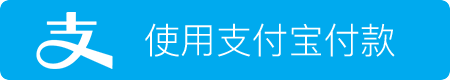
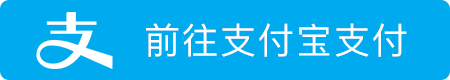
更新二维码显示模式！

diff --git a/alipay.php b/alipay.php
@@ -37,7 +37,22 @@ function alipay_link($params) {
 	$currency 			= $params['currency'];
 	$return_url			= $systemurl."/modules/gateways/alipay/return.php";
 	$notify_url			= $systemurl."/modules/gateways/alipay/notify.php";
-	$parameter = array(
+	$qcode = array(
+		"service"         => "create_direct_pay_by_user",  					//交易类型
+		"partner"         => $gatewayPID,          							//合作商户号
+		"return_url"      => $return_url,         							//同步返回
+		"notify_url"      => $notify_url,       							//异步返回
+		"_input_charset"  => $_input_charset,   							//字符集，默认为GBK
+		"subject"         => "$companyname 账单 #$invoiceid",        		//商品名称，必填
+		"body"            => $description,        							//商品描述，必填
+		"out_trade_no"    => $invoiceid,      								//商品外部交易号，必填（保证唯一性）
+		"total_fee"       => $amount,            							//商品单价，必填（价格不能为0）
+		"payment_type"    => "1",               							//默认为1,不需要修改
+		"qr_pay_mode"	  => "1",											//二维码模式
+		"show_url"        => $systemurl,         							//商品相关网站
+		"seller_email"    => $gatewaySELLER_EMAIL      						//卖家邮箱，必填
+	);
+	$webpay = array(
 		"service"         => "create_direct_pay_by_user",  					//交易类型
 		"partner"         => $gatewayPID,          							//合作商户号
 		"return_url"      => $return_url,         							//同步返回
@@ -52,10 +67,22 @@ function alipay_link($params) {
 		"seller_email"    => $gatewaySELLER_EMAIL      						//卖家邮箱，必填
 	);
 
-	$alipay = new alipay_service($parameter,$gatewaySECURITY_CODE,$sign_type);
-	$link=$alipay->create_url();
+	$qcodepay = new alipay_service($qcode,$gatewaySECURITY_CODE,$sign_type);
+	$webpay = new alipay_service($webpay,$gatewaySECURITY_CODE,$sign_type);
+	$qcodelink=$qcodepay->create_url();
+	$webpaylink=$webpay->create_url();
 	$img=$systemurl.'/modules/gateways/alipay/pay-with-alipay.png'; //这个图片要先存放好.
-	$code='<a href="'.$link.'" target="_blank"><img style="width: 225px" src="'.$img.'" alt="点击使用支付宝支付"></a>';
+	$codeinput='<a href="'.$webpaylink.'" target="_blank"><img style="width: 225px" src="'.$img.'" alt="点击使用支付宝支付"></a>';
+	$code='
+<script>
+function refreshPage() { 
+	window.location.reload(); 
+} 
+window.setTimeout("refreshPage()",10000);
+</script>
+<iframe src="'.$qcodelink.'" width="300" height="290" style="border: none;transform: scale(.76);margin: -30px 0 -30px -35px;"></iframe>';
+	
+	$code= $code . $codeinput;
 	
 	if (stristr($_SERVER['PHP_SELF'], 'viewinvoice')) {
 		return $code;

diff --git a/alipay/notify.php b/alipay/notify.php
@@ -172,6 +172,11 @@ function  log_result($word) {
 }
 $gatewaymodule = "alipay"; # Enter your gateway module name here replacing template
 $GATEWAY = getGatewayVariables($gatewaymodule);
+
+$url			= $GATEWAY['systemurl'];
+$companyname 	= $GATEWAY['companyname'];
+$currency		= $GATEWAY['currency'];
+
 if (!$GATEWAY["type"]) die("Module Not Activated"); # Checks gateway module is active before accepting callback
 
 $_input_charset  = "utf-8";   //字符编码格式 目前支持 GBK 或 utf-8
@@ -192,6 +197,7 @@ $invoiceid = $_POST['out_trade_no']; //获取支付宝传递过来的订单号
 $transid = $_POST['trade_no'];       //获取支付宝传递过来的交易号
 $amount = $_POST['total_fee'];       //获取支付宝传递过来的总价格
 $fee = 0;
+
 if($status == 'TRADE_FINISHED' || $status == 'TRADE_SUCCESS') {
 	$invoiceid = checkCbInvoiceID($invoiceid,$GATEWAY["name"]); # Checks invoice ID is a valid invoice number or ends processing
 	//checkCbTransID($transid); # Checks transaction number isn't already in the database and ends processing if it does
@@ -204,6 +210,7 @@ if($status == 'TRADE_FINISHED' || $status == 'TRADE_SUCCESS') {
 		addInvoicePayment($invoiceid,$transid,$amount,$fee,$gatewaymodule);
 		logTransaction($GATEWAY["name"],$_GET,"Successful");
 	}
+	//echo "<script>window.parent.location.href='$url/viewinvoice.php?id=$invoiceid';</script>";
 	echo "success";
 }
 

diff --git a/alipay/return.php b/alipay/return.php
@@ -170,6 +170,11 @@ function  log_result($word) {
 
 $gatewaymodule = "alipay"; # Enter your gateway module name here replacing template
 $GATEWAY = getGatewayVariables($gatewaymodule);
+
+$url			= $GATEWAY['systemurl'];
+$companyname 	= $GATEWAY['companyname'];
+$currency		= $GATEWAY['currency'];
+
 if (!$GATEWAY["type"]) die("Module Not Activated"); # Checks gateway module is active before accepting callback
 
 $_input_charset  = "utf-8";   //字符编码格式 目前支持 GBK 或 utf-8
@@ -203,12 +208,10 @@ if(!$verify_result) {
 			addInvoicePayment($invoiceid,$transid,$amount,$fee,$gatewaymodule);
 			logTransaction($GATEWAY["name"],$_GET,"Successful");
 		}
+		//echo "<script>window.parent.location.href='$url/viewinvoice.php?id=$invoiceid';</script>";
 	}
 	
 }
-$url			= $GATEWAY['systemurl'];
-$companyname 	= $GATEWAY['companyname'];
-$currency		= $GATEWAY['currency'];
 ?>
 <!DOCTYPE html> 
 <html> 

diff --git a/README.md b/README.md
@@ -5,6 +5,10 @@ NeWorld 出品，支付宝插件
 
 #### 后台开启支付宝插件、填写对应参数即可使用。
 
+最新添加二维码扫码模式
+
+![二维码扫码模式](https://cdn.neworld.org/2016-08-18-%E6%94%AF%E4%BB%98%E5%AE%9D-%E5%BE%85%E4%BB%98%E6%AC%BE.jpg)
+
 支付成功状态
 
 ![支付成功状态](https://dn-neworld.qbox.me/qqddc.jpg)
